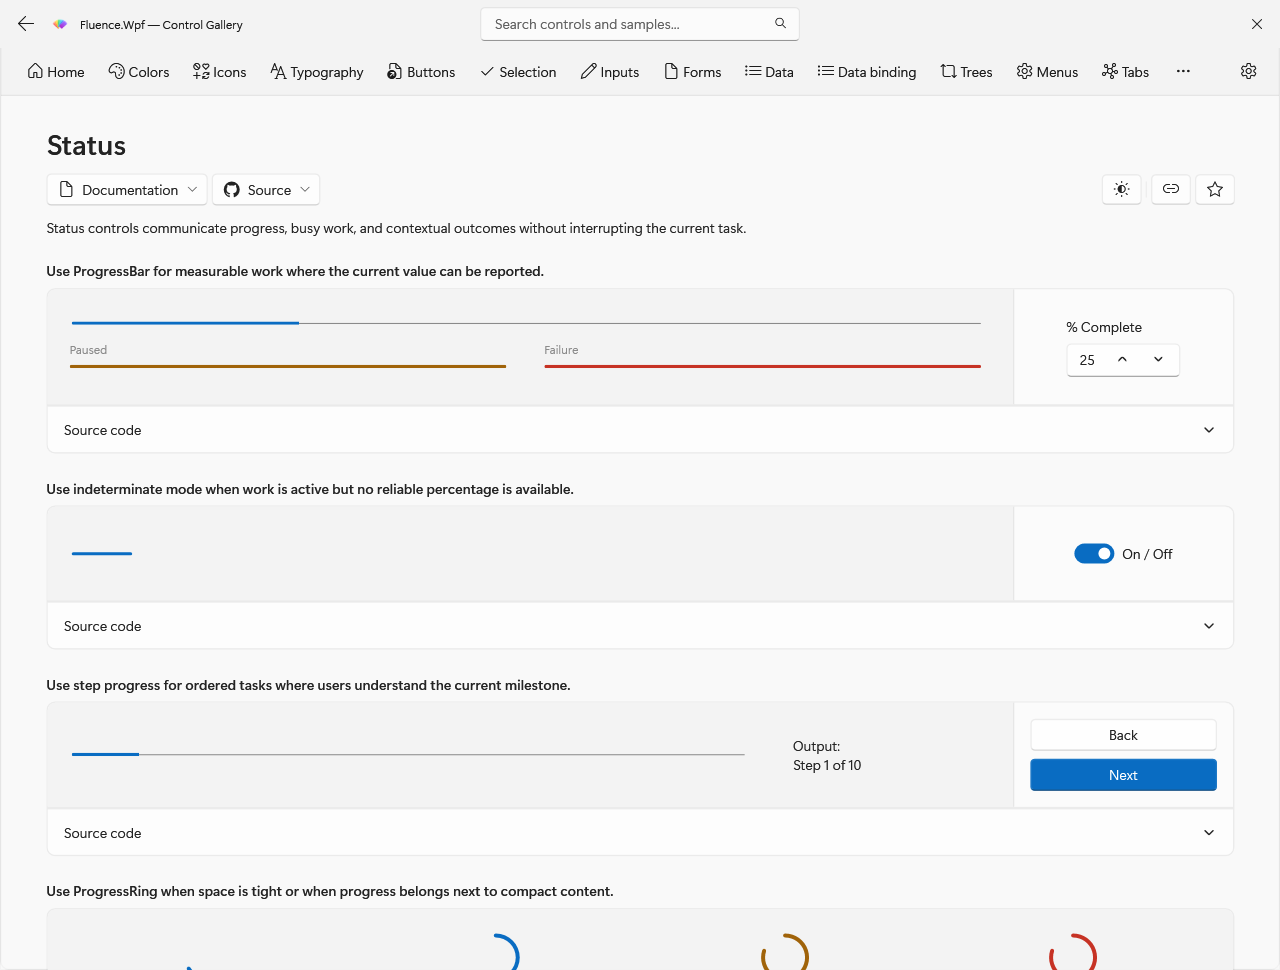
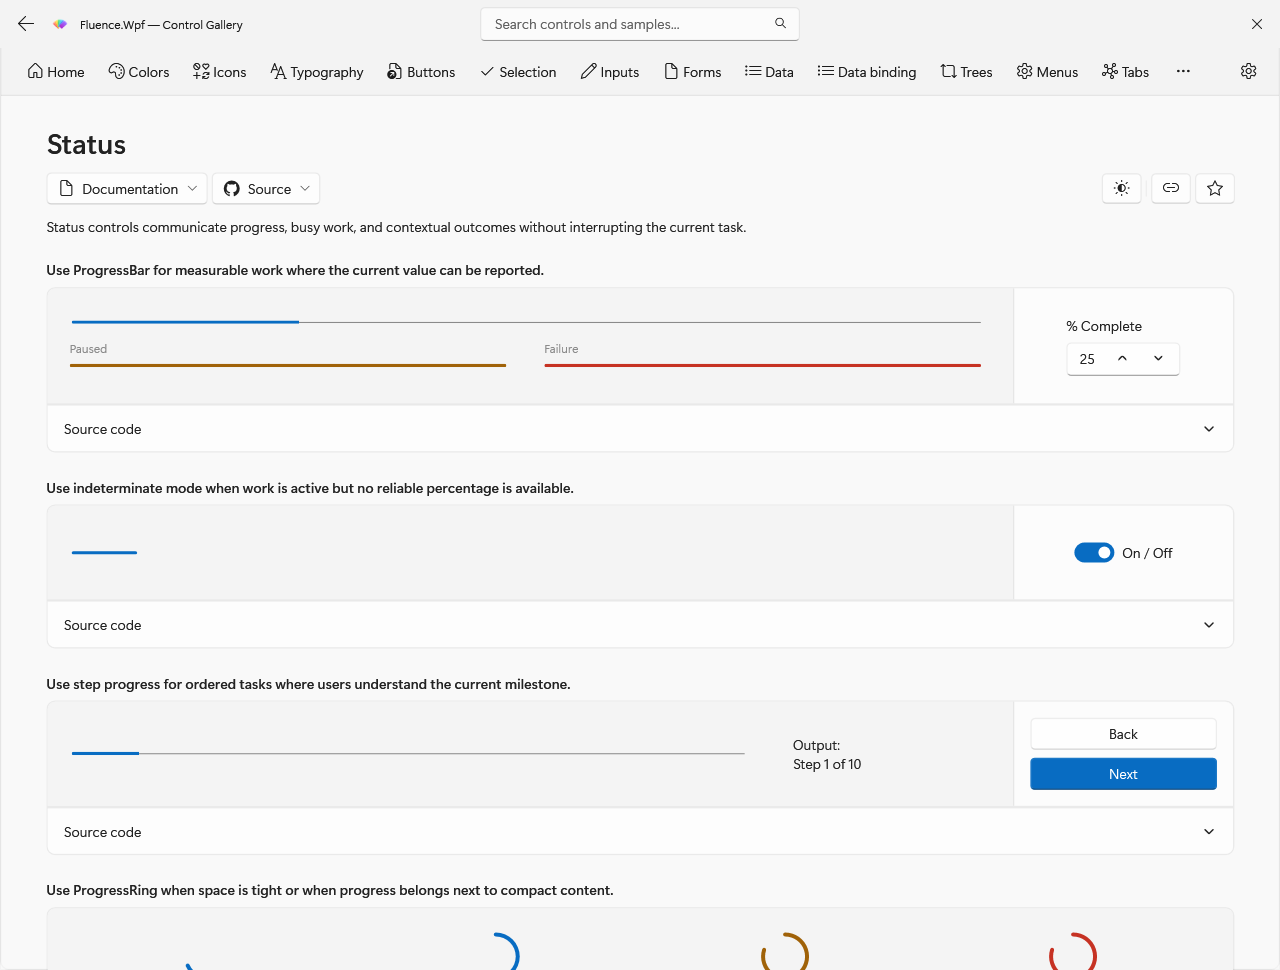
fix(demo): ride the gallery page scrollbar against the window frame
The WinUI 3 Gallery puts its page ScrollViewer outside the ItemPage content
margin, so the rail sits at the far right of the navigation view's content,
against the window frame, and the sample cards keep the page margin to
themselves. Here the scroll host lives inside the content Grid and was only
borrowing the rail's own width back out of the right page margin, which left the
rail inset about 32 dip from the frame.

The host now gives the whole right page margin back and the scrolling content
pays the same amount again, so the rail reaches the frame while the cards still
end where the page title does. Measured through UI Automation at 150% DPI: the
rail's right edge is 2 physical pixels from the window's, which is the chrome
border.

The Colors page is the exception the Gallery itself makes: its rail belongs to
the section on screen and travels with it through the SlideNavigationPresenter,
so it stays inside the page margin. It had been sharing the page token, so it
gets its own, DemoColorSectionScrollHostMargin, pinned at the old value.

GallerySettingsPage's width arithmetic follows the gutter it subtracts.

diff --git a/Fluence.Wpf.Demo/Resources/DemoSharedStyles.xaml b/Fluence.Wpf.Demo/Resources/DemoSharedStyles.xaml
@@ -18,17 +18,19 @@
     <Thickness x:Key="DemoPageDescriptionMargin">0,0,0,24</Thickness>
     <!--
         Scroll-host geometry, measured against the WinUI 3 Gallery at 150% DPI. The Gallery puts its
-        page ScrollViewer outside the ItemPage content margin, so the scrollbar rail sits in the page
-        margin and the sample cards run edge to edge with the page title. Here the scroll host lives
-        inside the content Grid, so it borrows the rail width back out of the right page margin
-        (DemoPageScrollHostMargin) and the scrolling content pays it again as a gutter
-        (DemoPageScrollContentMargin). The cards then start at the title's left edge and end at the
-        Gallery's right edge, with the rail clear of both. The scrolling content also carries the
-        Gallery's 48 dip bottom inset, so the trailing room after the last card scrolls with the
-        samples instead of standing as dead space under the scroll host.
+        page ScrollViewer outside the ItemPage content margin entirely, so the rail rides the window
+        frame at the far right of the navigation view's content and the sample cards keep the page
+        margin. Here the scroll host lives inside the content Grid, so it gives the whole right page
+        margin back (DemoPageScrollHostMargin) to reach the frame, and the scrolling content pays the
+        same amount again (DemoPageScrollContentMargin) so the cards still end where the page title
+        does. The scrolling content also carries the Gallery's 48 dip bottom inset, so the trailing
+        room after the last card scrolls with the samples instead of standing as dead space under the
+        scroll host. The Colors page is the exception and keeps its rail inside the page margin, on
+        DemoColorSectionScrollHostMargin below, because its rail belongs to the section on screen
+        rather than to the page.
     -->
-    <Thickness x:Key="DemoPageScrollHostMargin">0,0,-12,0</Thickness>
-    <Thickness x:Key="DemoPageScrollContentMargin">0,0,12,48</Thickness>
+    <Thickness x:Key="DemoPageScrollHostMargin">0,0,-44,0</Thickness>
+    <Thickness x:Key="DemoPageScrollContentMargin">0,0,44,48</Thickness>
     <Thickness x:Key="DemoCompactStackSpacingMargin">0,0,0,8</Thickness>
     <Thickness x:Key="DemoTextTopGapMargin">0,6,0,0</Thickness>
     <!--  Vertical margin is split top/bottom (6+6) rather than bottom-only (0+12) so a control group centered in a demo sample card sits equidistant from the card's top and bottom. Total spacing is unchanged: 12px between wrapped rows, 12px between items horizontally, flush-left.  -->
@@ -411,11 +413,14 @@
     <Thickness x:Key="DemoColorSelectorBarMargin">-12,4,0,0</Thickness>
     <!--
         The section content keeps the right-hand gutter its scroll host borrowed back from the page
-        margin (DemoPageScrollHostMargin), so the vertical scrollbar has somewhere to sit instead of
-        running under the cards, and the cards still line up with the page title on the left. The 48 dip
-        bottom is the Gallery's trailing room after the last tile row, scrolling with the section.
+        margin (DemoColorSectionScrollHostMargin), so the vertical scrollbar has somewhere to sit
+        instead of running under the cards, and the cards still line up with the page title on the left.
+        The 48 dip bottom is the Gallery's trailing room after the last tile row, scrolling with the
+        section.
     -->
     <Thickness x:Key="DemoColorSectionContentMargin">0,0,12,48</Thickness>
+    <!--  The Colors page rail stays inside the page margin rather than riding the window frame, because it belongs to the section on screen and travels with it through the SlideNavigationPresenter, which is where the WinUI 3 Gallery Color page puts its own (image parity: the Color page rail sits left of the frame, every other page's rides it).  -->
+    <Thickness x:Key="DemoColorSectionScrollHostMargin">0,0,-12,0</Thickness>
     <Thickness x:Key="DemoNoMargin">0</Thickness>
 
 </ResourceDictionary>

diff --git a/Fluence.Wpf.Tests/Gallery/DemoShellTests.cs b/Fluence.Wpf.Tests/Gallery/DemoShellTests.cs
@@ -1423,14 +1423,16 @@ namespace Fluence.Wpf.Tests.Gallery
                         // The locking invariant: the page header never scrolls with the samples.
                         Assert.Empty(DemoTestHost.FindVisualChildren<GalleryPageHeader>(scrollViewer));
 
-                        // WinUI Gallery geometry: the scroll host borrows the scrollbar rail back
-                        // out of the page's right margin and the content pays it again as a gutter,
-                        // so the cards line up with the page title on the left and reach the
-                        // Gallery's right edge, with the rail clear of both.
-                        Assert.Equal(new Thickness(0, 0, -12, 0), scrollViewer.Margin);
+                        // WinUI Gallery geometry: the Gallery puts its page ScrollViewer outside
+                        // the page content margin, so the rail rides the window frame. The scroll
+                        // host gives the whole right page margin back to reach it and the content
+                        // pays the same amount again, so the cards still end where the title does.
+                        // The Colors page is the exception, asserted above: its rail belongs to the
+                        // section on screen and stays inside the page margin.
+                        Assert.Equal(new Thickness(0, 0, -44, 0), scrollViewer.Margin);
 
                         StackPanel content = Assert.IsType<StackPanel>(scrollViewer.Content);
-                        Assert.Equal(new Thickness(0, 0, 12, 48), content.Margin);
+                        Assert.Equal(new Thickness(0, 0, 44, 48), content.Margin);
                     }
                     finally
                     {

diff --git a/Fluence.Wpf.Demo/Pages/GallerySettingsPage.xaml.cs b/Fluence.Wpf.Demo/Pages/GallerySettingsPage.xaml.cs
@@ -44,8 +44,8 @@ namespace Fluence.Wpf.Demo.Pages
         // PageContentGrid via GalleryPageContentGridStyle, so SettingsScrollViewer.ActualWidth
         // is already net of that margin, and the host borrows the scrollbar rail back out of it
         // (DemoPageScrollHostMargin). This constant only needs the scrolling StackPanel's own
-        // right-hand gutter (DemoPageScrollContentMargin = 0,0,12,48); only its horizontal part matters here.
-        private const double PageHorizontalMargin = 12.0;
+        // right-hand gutter (DemoPageScrollContentMargin = 0,0,44,48); only its horizontal part matters here.
+        private const double PageHorizontalMargin = 44.0;
         private const double PageMaxWidth = 1064.0;
         private const double CompactSettingsWidth = 640.0;
         private const double RegularPickerWidth = 240.0;

diff --git a/Fluence.Wpf.Demo/Pages/GalleryColorsPage.xaml.cs b/Fluence.Wpf.Demo/Pages/GalleryColorsPage.xaml.cs
@@ -711,7 +711,7 @@ namespace Fluence.Wpf.Demo.Pages
                 Focusable = true,
             };
             scroll.SetResourceReference(StyleProperty, "GalleryPageScrollViewerStyle");
-            scroll.SetResourceReference(MarginProperty, "DemoPageScrollHostMargin");
+            scroll.SetResourceReference(MarginProperty, "DemoColorSectionScrollHostMargin");
             return scroll;
         }
 

diff --git a/CHANGELOG.md b/CHANGELOG.md
@@ -37,6 +37,7 @@ This is the last preview before 1.0 and it carries the whole 1.0 readiness pass,
 
 - `Expander` takes WinUI's box model. The header carries `ExpanderHeaderPadding` 16,0,0,0 and gets its height from `ExpanderMinHeight` 48 rather than from 11 dip of vertical padding; `MinHeight` and `Padding` are set on the control and template-bound into both tiers, so `Padding` now insets the content tier (default `ExpanderContentPadding` 16) instead of being ignored. `Background` paints the content tier, which is where WinUI puts it, and the header takes the card default fill on its own; a consumer who set `Background` to colour the header now colours the content instead.
 - Demo: `DemoSampleControl` hosts the stock `Expander` for its source section rather than a copy of the control's template, configured as the WinUI Gallery configures its own (`ControlExample.xaml`): no padding, stretched, card secondary fill and bottom-only corners. The two demo-local styles that duplicated the header, the chevron and the expand slide are gone.
+- Demo: the gallery page scrollbar rides the window frame at the far right of the navigation view's content, which is where the WinUI 3 Gallery puts its own: the Gallery's page `ScrollViewer` sits outside the page content margin, so the rail is clear of the cards rather than inset from them. The scroll host gives the whole right page margin back to reach the frame and the scrolling content pays the same amount again, so the cards still end where the page title does. The Colors page keeps its rail inside the page margin, on the new `DemoColorSectionScrollHostMargin`, because that rail belongs to the section on screen and travels with it through the `SlideNavigationPresenter`, exactly as the Gallery's own Color page does.
 - Demo: every gallery page sets the theme text brush on its root. WPF's `Page` resolves its own `Foreground` from `SystemColors` instead of inheriting it, so page text rendered black on the dark theme until a later theme change re-resolved it.
 - Demo: the Colors page content stretches to the shell width, which matters most in Top pane display mode where the pane hands its width back to the content. Tile labels wrap when the column is narrow enough, as the Gallery does at its own width.
 - Demo: the Colors page High Contrast section shows the four contrast themes Windows ships (Aquatic, Desert, Dusk, Night Sky) as fixed palettes under the live system-colour row, as the Gallery's own High Contrast section does. `ColorTile` now accepts a literal colour for those palette tiles; live tiles are unchanged.
